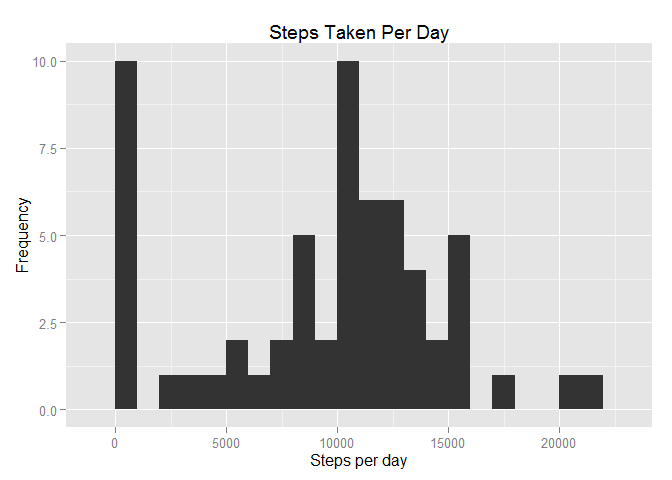
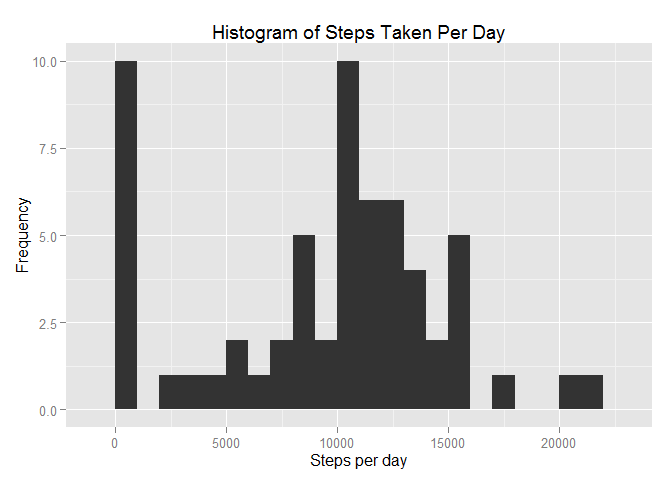
more edit

Changed region(s): [[0.3125, 0.0312, 0.75, 0.0938]]

diff --git a/PA1_template.html b/PA1_template.html
@@ -58,25 +58,24 @@ if (window.hljs && document.readyState && document.readyState === "complete") {
 <div id="loading-and-preprocessing-the-data" class="section level2">
 <h2>Loading and preprocessing the data</h2>
 <p>The first step of this report is loading and preprocessing the “activity” dataset. We load the dataset with the following R code.</p>
-<pre class="r"><code>suppressMessages(library(dplyr))
-
-data &lt;- read.csv(&quot;activity.csv&quot;)
+<pre class="r"><code>data &lt;- read.csv(&quot;activity.csv&quot;)
 str(data)</code></pre>
 <pre><code>## 'data.frame':    17568 obs. of  3 variables:
 ##  $ steps   : int  NA NA NA NA NA NA NA NA NA NA ...
 ##  $ date    : Factor w/ 61 levels &quot;2012-10-01&quot;,&quot;2012-10-02&quot;,..: 1 1 1 1 1 1 1 1 1 1 ...
 ##  $ interval: int  0 5 10 15 20 25 30 35 40 45 ...</code></pre>
-<p>Note that the steps columns have the correct “int” type and the date column is a factor by default. No pre-processing is needed.</p>
+<p>Note that the steps columns have the correct “int” type and the date column is a factor by default. No additional processing is needed at this point.</p>
 </div>
 <div id="what-is-mean-total-number-of-steps-taken-per-day" class="section level2">
 <h2>What is mean total number of steps taken per day?</h2>
-<p>In this section we analyze how many steps are taken a day. We again use the ‘dplyr’ package. Here is a histrogram of the total number of steps taken each day.</p>
-<pre class="r"><code>suppressMessages(library(ggplot2))
+<p>In this section we analyze how many steps were taken a day. We use ‘dplyr’ package in R for transforming data and ‘ggplot2’ package for rendering plots. We calculate the total number of steps taken per each day and plot a histrogram of the computed values.</p>
+<pre class="r"><code>suppressMessages(library(dplyr))
+suppressMessages(library(ggplot2))
 dategroups &lt;- group_by(data, date)
 datesteps &lt;- summarize(dategroups, steps = sum(steps, na.rm=TRUE))
-qplot(steps, data = datesteps, main = &quot;Steps Taken Per Day&quot;,
-     xlab = &quot;Steps per day&quot;, ylab = &quot;Frequency&quot;, binwidth=1000)</code></pre>
[1 lines of base64/hex data omitted]
+qplot(steps, data = datesteps, main = &quot;Histogram of Steps Taken Per Day&quot;,
+      xlab = &quot;Steps per day&quot;, ylab = &quot;Frequency&quot;, binwidth=1000)</code></pre>
[1 lines of base64/hex data omitted]
 <p>The mean value of the steps taken per day is</p>
 <pre class="r"><code>mean(datesteps$steps)</code></pre>
 <pre><code>## [1] 9354.23</code></pre>
@@ -86,16 +85,23 @@ qplot(steps, data = datesteps, main = &quot;Steps Taken Per Day&quot;,
 </div>
 <div id="what-is-the-average-daily-activity-pattern" class="section level2">
 <h2>What is the average daily activity pattern?</h2>
+<p>Let us take a loot at the number of steps taken per each 5-minute intervals averaged over all days. Here is a time-series plot.</p>
 <pre class="r"><code>intervalgroups &lt;- group_by(data, interval)
 intervalsteps &lt;- summarize(intervalgroups, avgsteps = mean(steps, na.rm=TRUE))
 qplot(interval, avgsteps, data = intervalsteps, geom=&quot;line&quot;,
       main = &quot;Daily Activity Pattern&quot;, xlab = &quot;Interval (5 minutes)&quot;,
       ylab = &quot;Steps (average)&quot;)</code></pre>
[1 lines of base64/hex data omitted]
+<p>The maximum average steps taken in a 5-minute interval is</p>
+<pre class="r"><code>max(intervalsteps$avgsteps)</code></pre>
+<pre><code>## [1] 206.1698</code></pre>
+<p>and the maximum was achieved at the following interval</p>
+<pre class="r"><code>intervalsteps$interval[which.max(intervalsteps$avgsteps)]</code></pre>
+<pre><code>## [1] 835</code></pre>
 </div>
 <div id="imputing-missing-values" class="section level2">
 <h2>Imputing missing values</h2>
-<p>In this section we will analyze the missing values in the data and will fill in all of the missing values. First we calculate the total number of missing values in the data.</p>
+<p>Let us analyze the missing values in the data and will fill in all of the missing values. First we calculate the total number of missing values in the data.</p>
 <pre class="r"><code>length(which(is.na(data$steps)))</code></pre>
 <pre><code>## [1] 2304</code></pre>
 <p>We will fill all the missing values in our data. Our strategy is to fill them with the mean value of that 5-minute interval averaged over all days. Note that we already computed and stored the required data in the previous section.</p>
@@ -107,9 +113,9 @@ data_NAremoved &lt;- data_NAremoved[c(&quot;steps&quot;, &quot;date&quot;, &quot
 <p>Now let us make a histogram of the the total number of steps taken each day with the new data.</p>
 <pre class="r"><code>dategroups &lt;- group_by(data_NAremoved, date)
 datesteps &lt;- summarize(dategroups, steps = sum(steps))
-qplot(steps, data = datesteps, main = &quot;Steps Taken Per Day (Removed Missing Values)&quot;,
+qplot(steps, data = datesteps, main = &quot;Histogram of Steps Taken Per Day (Removed Missing Values)&quot;,
       xlab = &quot;Steps per day&quot;, ylab = &quot;Frequency&quot;, binwidth = 1000)</code></pre>
[2 lines of base64/hex data omitted]
 <p>The new mean value of the steps taken per day is</p>
 <pre class="r"><code>mean(datesteps$steps)</code></pre>
 <pre><code>## [1] 10766.19</code></pre>

diff --git a/PA1_template.md b/PA1_template.md
@@ -6,8 +6,6 @@
 The first step of this report is loading and preprocessing the "activity" dataset. We load the dataset with the following R code.
 
 ```r
-suppressMessages(library(dplyr))
-
 data <- read.csv("activity.csv")
 str(data)
 ```
@@ -19,18 +17,19 @@ str(data)
 ##  $ interval: int  0 5 10 15 20 25 30 35 40 45 ...
 ```
 
-Note that the steps columns have the correct "int" type and the date column is a factor by default. No pre-processing is needed.
+Note that the steps columns have the correct "int" type and the date column is a factor by default. No additional processing is needed at this point.
 
 ## What is mean total number of steps taken per day?
 
-In this section we analyze how many steps are taken a day. We again use the 'dplyr' package. Here is a histrogram of the total number of steps taken each day.
+In this section we analyze how many steps were taken a day. We use 'dplyr' package in R for transforming data and 'ggplot2' package for rendering plots. We calculate the total number of steps taken per each day and plot a histrogram of the computed values.
 
 ```r
+suppressMessages(library(dplyr))
 suppressMessages(library(ggplot2))
 dategroups <- group_by(data, date)
 datesteps <- summarize(dategroups, steps = sum(steps, na.rm=TRUE))
-qplot(steps, data = datesteps, main = "Steps Taken Per Day",
-     xlab = "Steps per day", ylab = "Frequency", binwidth=1000)
+qplot(steps, data = datesteps, main = "Histogram of Steps Taken Per Day",
+      xlab = "Steps per day", ylab = "Frequency", binwidth=1000)
 ```
 
 ![](PA1_template_files/figure-html/dayhist-1.png) 
@@ -56,6 +55,8 @@ median(datesteps$steps)
 
 ## What is the average daily activity pattern?
 
+Let us take a loot at the number of steps taken per each 5-minute intervals averaged over all days. Here is a time-series plot.
+
 
 ```r
 intervalgroups <- group_by(data, interval)
@@ -65,11 +66,34 @@ qplot(interval, avgsteps, data = intervalsteps, geom="line",
       ylab = "Steps (average)")
 ```
 
-![](PA1_template_files/figure-html/intervalmean-1.png) 
+![](PA1_template_files/figure-html/averagedailyplot-1.png) 
+
+The maximum average steps taken in a 5-minute interval is
+
+
+```r
+max(intervalsteps$avgsteps)
+```
+
+```
+## [1] 206.1698
+```
+
+and the maximum was achieved at the following interval
+
+
+```r
+intervalsteps$interval[which.max(intervalsteps$avgsteps)]
+```
+
+```
+## [1] 835
+```
+
 
 ## Imputing missing values
 
-In this section we will analyze the missing values in the data and will fill in all of the missing values. First we calculate the total number of missing values in the data.
+Let us analyze the missing values in the data and will fill in all of the missing values. First we calculate the total number of missing values in the data.
 
 
 ```r
@@ -97,7 +121,7 @@ Now let us make a histogram of the the total number of steps taken each day with
 ```r
 dategroups <- group_by(data_NAremoved, date)
 datesteps <- summarize(dategroups, steps = sum(steps))
-qplot(steps, data = datesteps, main = "Steps Taken Per Day (Removed Missing Values)",
+qplot(steps, data = datesteps, main = "Histogram of Steps Taken Per Day (Removed Missing Values)",
       xlab = "Steps per day", ylab = "Frequency", binwidth = 1000)
 ```
 
